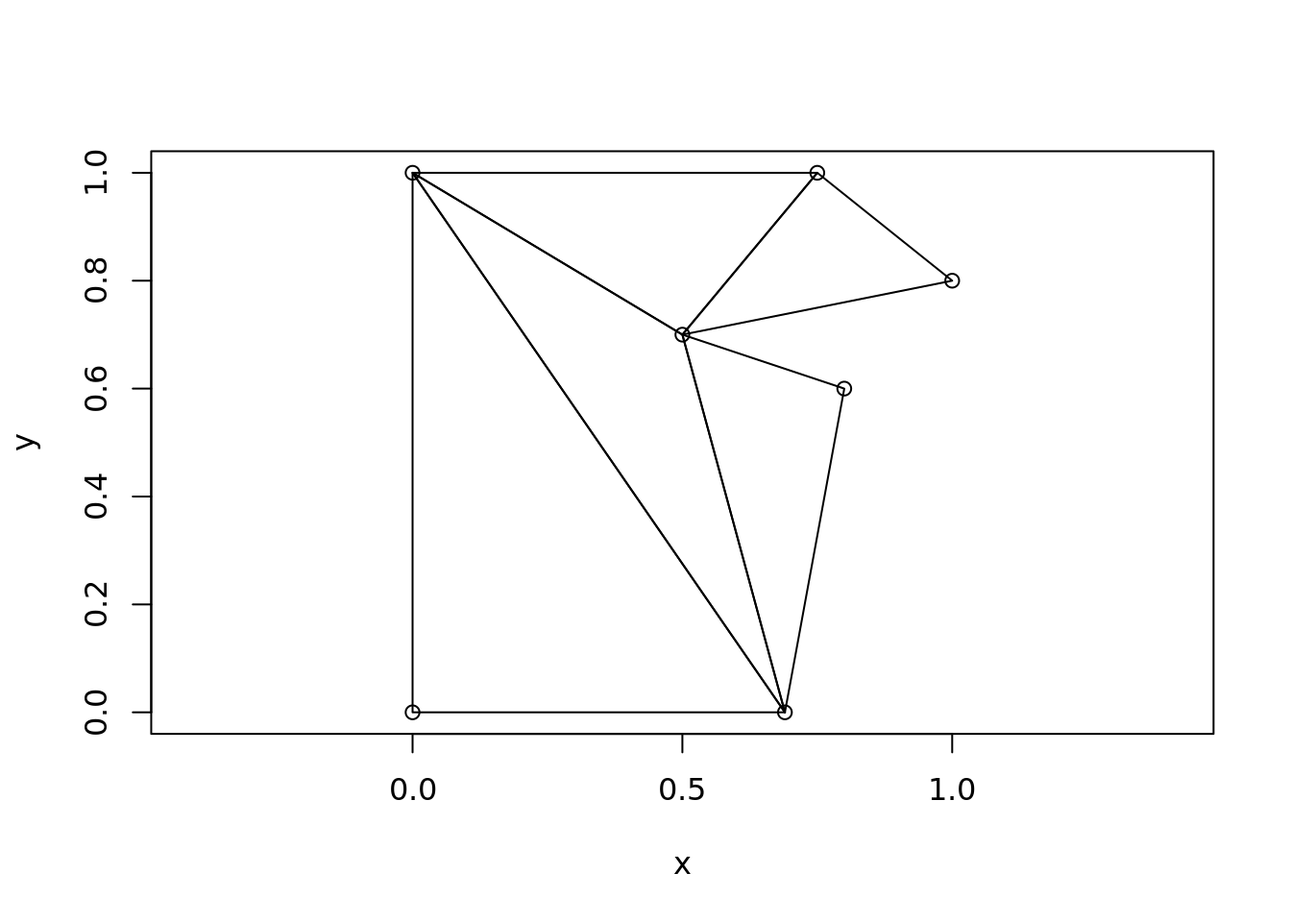
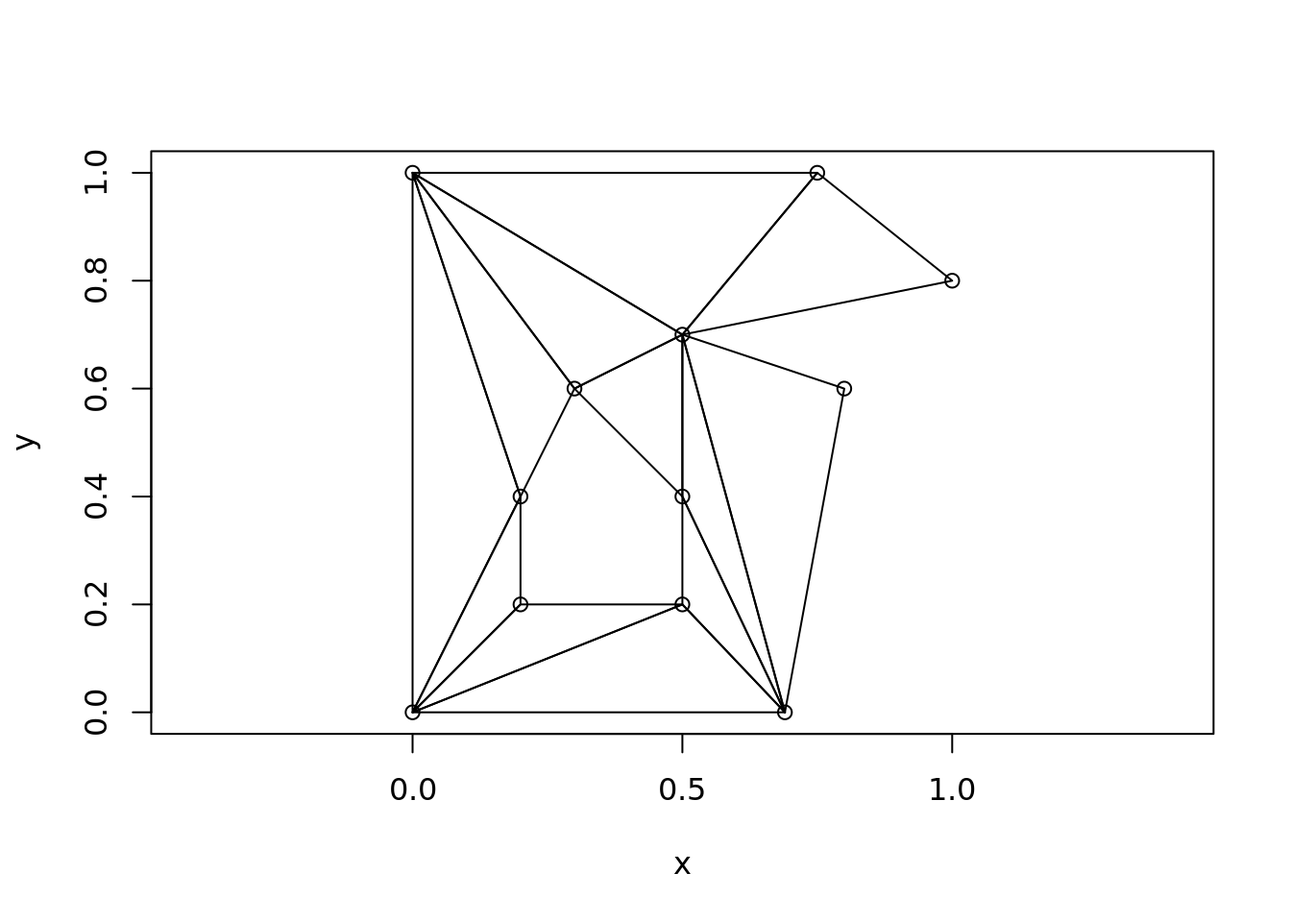
flesh out getting started vignette

diff --git a/docs/articles/decido.html b/docs/articles/decido.html
@@ -5,7 +5,7 @@
 <meta charset="utf-8">
 <meta http-equiv="X-UA-Compatible" content="IE=edge">
 <meta name="viewport" content="width=device-width, initial-scale=1.0">
-<title>decido • decido</title>
+<title>decido - polygon triangulation by ear clipping • decido</title>
 <!-- jquery --><script src="https://code.jquery.com/jquery-3.1.0.min.js" integrity="sha384-nrOSfDHtoPMzJHjVTdCopGqIqeYETSXhZDFyniQ8ZHcVy08QesyHcnOUpMpqnmWq" crossorigin="anonymous"></script><!-- Bootstrap --><link href="https://maxcdn.bootstrapcdn.com/bootstrap/3.3.7/css/bootstrap.min.css" rel="stylesheet" integrity="sha384-BVYiiSIFeK1dGmJRAkycuHAHRg32OmUcww7on3RYdg4Va+PmSTsz/K68vbdEjh4u" crossorigin="anonymous">
 <script src="https://maxcdn.bootstrapcdn.com/bootstrap/3.3.7/js/bootstrap.min.js" integrity="sha384-Tc5IQib027qvyjSMfHjOMaLkfuWVxZxUPnCJA7l2mCWNIpG9mGCD8wGNIcPD7Txa" crossorigin="anonymous"></script><!-- Font Awesome icons --><link href="https://maxcdn.bootstrapcdn.com/font-awesome/4.6.3/css/font-awesome.min.css" rel="stylesheet" integrity="sha384-T8Gy5hrqNKT+hzMclPo118YTQO6cYprQmhrYwIiQ/3axmI1hQomh7Ud2hPOy8SP1" crossorigin="anonymous">
 <!-- pkgdown --><link href="../pkgdown.css" rel="stylesheet">
@@ -56,7 +56,7 @@
       </header><div class="row">
   <div class="col-md-9">
     <div class="page-header toc-ignore">
-      <h1>decido</h1>
+      <h1>decido - polygon triangulation by ear clipping</h1>
                         <h4 class="author">Michael D. Sumner</h4>
             
             <h4 class="date">2018-02-26</h4>
@@ -65,7 +65,7 @@
     
     
 <div class="contents">
-<p>WIP</p>
+<p>Constrained triangulation of polygons by ear clipping.</p>
 <div id="example" class="section level2">
 <h2 class="hasAnchor">
 <a href="#example" class="anchor"></a>Example</h2>
@@ -79,99 +79,108 @@ y &lt;-<span class="st"> </span><span class="kw">c</span>(<span class="dv">0</sp
 
 <span class="kw">plot_ears</span>(<span class="kw">cbind</span>(x, y), ind)</code></pre></div>
 <p><img src="decido_files/figure-html/example-1.png" width="672"></p>
-<p>Support for holes is provided by two required arguments <code>numholes</code> and <code>holes</code>. The holes are the starting index of each hole, here in R 1-based convention.</p>
-<div class="sourceCode"><pre class="sourceCode r"><code class="sourceCode r"><span class="kw">example</span>(earcut, <span class="dt">echo =</span> <span class="ot">TRUE</span>)
-<span class="co">#&gt; </span>
-<span class="co">#&gt; earcut&gt; ## single ring polygon</span>
-<span class="co">#&gt; earcut&gt; x &lt;- c(0, 0, 0.75, 1, 0.5, 0.8, 0.69)</span>
-<span class="co">#&gt; </span>
-<span class="co">#&gt; earcut&gt; y &lt;- c(0, 1, 1, 0.8, 0.7, 0.6, 0)</span>
-<span class="co">#&gt; </span>
-<span class="co">#&gt; earcut&gt; (ind &lt;- earcut(x, y))</span>
-<span class="co">#&gt;  [1] 2 1 7 7 6 5 5 4 3 2 7 5 5 3 2</span>
-<span class="co">#&gt; </span>
-<span class="co">#&gt; earcut&gt; plot_ears(cbind(x, y), ind)</span></code></pre></div>
+<p>Support for holes is provided by the argument <code>holes</code>. The values are the starting index of each hole, here in R’s 1-based convention.</p>
+<div class="sourceCode"><pre class="sourceCode r"><code class="sourceCode r">## polygon with a hole
+x &lt;-<span class="st"> </span><span class="kw">c</span>(<span class="dv">0</span>, <span class="dv">0</span>, <span class="fl">0.75</span>, <span class="dv">1</span>, <span class="fl">0.5</span>, <span class="fl">0.8</span>, <span class="fl">0.69</span>,
+     <span class="fl">0.2</span>, <span class="fl">0.5</span>, <span class="fl">0.5</span>, <span class="fl">0.3</span>, <span class="fl">0.2</span>)
+y &lt;-<span class="st"> </span><span class="kw">c</span>(<span class="dv">0</span>, <span class="dv">1</span>, <span class="dv">1</span>, <span class="fl">0.8</span>, <span class="fl">0.7</span>, <span class="fl">0.6</span>, <span class="dv">0</span>,
+     <span class="fl">0.2</span>, <span class="fl">0.2</span>, <span class="fl">0.4</span>, <span class="fl">0.6</span>, <span class="fl">0.4</span>)
+ind &lt;-<span class="st"> </span><span class="kw"><a href="../reference/earcut.html">earcut</a></span>(x, y, <span class="dt">holes =</span> <span class="dv">8</span>)
+<span class="kw">plot_ears</span>(<span class="kw">cbind</span>(x, y), ind)</code></pre></div>
 <p><img src="decido_files/figure-html/unnamed-chunk-1-1.png" width="672"></p>
-<pre><code>#&gt; 
-#&gt; earcut&gt; ## polygon with a hole
-#&gt; earcut&gt; x &lt;- c(0, 0, 0.75, 1, 0.5, 0.8, 0.69,
-#&gt; earcut+      0.2, 0.5, 0.5, 0.3, 0.2)
-#&gt; 
-#&gt; earcut&gt; y &lt;- c(0, 1, 1, 0.8, 0.7, 0.6, 0,
-#&gt; earcut+      0.2, 0.2, 0.4, 0.6, 0.4)
-#&gt; 
-#&gt; earcut&gt; ind &lt;- earcut(x, y, holes = 8)
-#&gt; 
-#&gt; earcut&gt; plot_ears(cbind(x, y), ind)</code></pre>
-<p><img src="decido_files/figure-html/unnamed-chunk-1-2.png" width="672"></p>
-<pre><code>#&gt; 
-#&gt; earcut&gt; ## 1) Notice how the hole begins at index 8,
-#&gt; earcut&gt; ## hence holes = 8 above, and holes = c(8, 13) below
-#&gt; earcut&gt; plot_ears(cbind(x, y), ind, col = "grey", border = NA)</code></pre>
-<p><img src="decido_files/figure-html/unnamed-chunk-1-3.png" width="672"></p>
-<pre><code>#&gt; 
-#&gt; earcut&gt; text(x, y, labels = seq_along(x), pos = 2)
-#&gt; 
-#&gt; earcut&gt; ## add another hole
-#&gt; earcut&gt; x &lt;- c(0, 0, 0.75, 1, 0.5, 0.8, 0.69,
-#&gt; earcut+      0.2, 0.5, 0.5, 0.3, 0.2,
-#&gt; earcut+       0.15, 0.23, 0.2)
-#&gt; 
-#&gt; earcut&gt; y &lt;- c(0, 1, 1, 0.8, 0.7, 0.6, 0,
-#&gt; earcut+      0.2, 0.2, 0.4, 0.6, 0.4,
-#&gt; earcut+       0.65, 0.65, 0.81)
-#&gt; 
-#&gt; earcut&gt; ind &lt;- earcut(x, y, holes = c(8, 13))
-#&gt; 
-#&gt; earcut&gt; plot_ears(cbind(x, y), ind, col = "grey")</code></pre>
-<p><img src="decido_files/figure-html/unnamed-chunk-1-4.png" width="672"></p>
-<pre><code>#&gt; 
-#&gt; earcut&gt; # simpler shape with more than one hole
-#&gt; earcut&gt; # the two inside holes are open to each other
-#&gt; earcut&gt; # (so we can use the same data for one hole or two)
-#&gt; earcut&gt; x &lt;- c(0, 0, 1, 1,
-#&gt; earcut+        0.4, 0.2, 0.2, 0.4,
-#&gt; earcut+        0.6, 0.8, 0.8, 0.6
-#&gt; earcut+ )
-#&gt; 
-#&gt; earcut&gt; y &lt;- c(0, 1, 1, 0,
-#&gt; earcut+        0.2, 0.2, 0.4, 0.4,
-#&gt; earcut+        0.6, 0.6, 0.4, 0.4
-#&gt; earcut+ )
-#&gt; 
-#&gt; earcut&gt; ind &lt;- decido::earcut(x, y, holes = c(5, 9))
-#&gt; 
-#&gt; earcut&gt; plot_ears(cbind(x, y), ind, col = "grey")</code></pre>
-<p><img src="decido_files/figure-html/unnamed-chunk-1-5.png" width="672"></p>
-<pre><code>#&gt; 
-#&gt; earcut&gt; plot_holes(cbind(x, y), holes = c(5, 9), col = "grey")</code></pre>
-<p><img src="decido_files/figure-html/unnamed-chunk-1-6.png" width="672"></p>
-<pre><code>#&gt; 
-#&gt; earcut&gt; ind &lt;- decido::earcut(x, y, holes = 5)
-#&gt; 
-#&gt; earcut&gt; plot_ears(cbind(x, y), ind, col = "grey")</code></pre>
-<p><img src="decido_files/figure-html/unnamed-chunk-1-7.png" width="672"></p>
-<pre><code>#&gt; 
-#&gt; earcut&gt; plot_holes(cbind(x, y), holes = 5, col = "grey")</code></pre>
-<p><img src="decido_files/figure-html/unnamed-chunk-1-8.png" width="672"></p>
+<p>The hole-specification is a little subtle, since usually R’s functions (polygon and polypath, and others) expect NA values to separate separate paths.</p>
+<p>Notice how the hole begins at index 8, hence <code>holes = 8</code> above, and <code>holes = c(8, 13)</code> below.</p>
+<div class="sourceCode"><pre class="sourceCode r"><code class="sourceCode r"><span class="kw">plot_ears</span>(<span class="kw">cbind</span>(x, y), ind, <span class="dt">col =</span> <span class="st">"grey"</span>, <span class="dt">border =</span> <span class="ot">NA</span>)
+<span class="kw">text</span>(x, y, <span class="dt">labels =</span> <span class="kw">seq_along</span>(x), <span class="dt">pos =</span> <span class="dv">2</span>)</code></pre></div>
+<p><img src="decido_files/figure-html/unnamed-chunk-2-1.png" width="672"></p>
+<p>The method is subtle, and it’s also not the only way to do it, the grid package uses a grouping vector rather than a sparse index like this. The spatial packages sp and sf explicitly use structural hierarchies rather than more abstract specifications. The fortify-approach in ggplot2 is more like the grid one. A sparse representation is closer to what is needed for topological operations and visualization, consider that when we have triangles there are no need for “holes”, we can identify which triangles will be plotted and how (or not), and an index into the vertices available becomes a key efficiency feature. (See <a href="https://github.com/hypertidy/silicate">silicate</a> for a lot more on this topic).</p>
+<p>This example adds a third polygon, a second hole in the island.</p>
+<div class="sourceCode"><pre class="sourceCode r"><code class="sourceCode r">## add another hole
+x &lt;-<span class="st"> </span><span class="kw">c</span>(<span class="dv">0</span>, <span class="dv">0</span>, <span class="fl">0.75</span>, <span class="dv">1</span>, <span class="fl">0.5</span>, <span class="fl">0.8</span>, <span class="fl">0.69</span>,
+     <span class="fl">0.2</span>, <span class="fl">0.5</span>, <span class="fl">0.5</span>, <span class="fl">0.3</span>, <span class="fl">0.2</span>,
+      <span class="fl">0.15</span>, <span class="fl">0.23</span>, <span class="fl">0.2</span>)
+y &lt;-<span class="st"> </span><span class="kw">c</span>(<span class="dv">0</span>, <span class="dv">1</span>, <span class="dv">1</span>, <span class="fl">0.8</span>, <span class="fl">0.7</span>, <span class="fl">0.6</span>, <span class="dv">0</span>,
+     <span class="fl">0.2</span>, <span class="fl">0.2</span>, <span class="fl">0.4</span>, <span class="fl">0.6</span>, <span class="fl">0.4</span>,
+      <span class="fl">0.65</span>, <span class="fl">0.65</span>, <span class="fl">0.81</span>)
+ind &lt;-<span class="st"> </span><span class="kw"><a href="../reference/earcut.html">earcut</a></span>(x, y, <span class="dt">holes =</span> <span class="kw">c</span>(<span class="dv">8</span>, <span class="dv">13</span>))
+<span class="kw">plot_ears</span>(<span class="kw">cbind</span>(x, y), ind, <span class="dt">col =</span> <span class="st">"grey"</span>)</code></pre></div>
+<p><img src="decido_files/figure-html/unnamed-chunk-3-1.png" width="672"></p>
+</div>
+<div id="comparing-paths-and-triangles" class="section level2">
+<h2 class="hasAnchor">
+<a href="#comparing-paths-and-triangles" class="anchor"></a>Comparing paths and triangles</h2>
+<p>This example defines a much simpler shape, the minimal shape able to be decomposed to triangles (and not stay a triangle).</p>
+<p>A quadrilateral, with two holes that are open to each other allows the use of the same data, and we can tweak whether we wanted one hole or two. This is an important example used for validating early versions of this package.</p>
+<div class="sourceCode"><pre class="sourceCode r"><code class="sourceCode r">x &lt;-<span class="st"> </span><span class="kw">c</span>(<span class="dv">0</span>, <span class="dv">0</span>, <span class="dv">1</span>, <span class="dv">1</span>,
+       <span class="fl">0.4</span>, <span class="fl">0.2</span>, <span class="fl">0.2</span>, <span class="fl">0.4</span>,
+       <span class="fl">0.6</span>, <span class="fl">0.8</span>, <span class="fl">0.8</span>, <span class="fl">0.6</span>
+)
+y &lt;-<span class="st"> </span><span class="kw">c</span>(<span class="dv">0</span>, <span class="dv">1</span>, <span class="dv">1</span>, <span class="dv">0</span>,
+       <span class="fl">0.2</span>, <span class="fl">0.2</span>, <span class="fl">0.4</span>, <span class="fl">0.4</span>,
+       <span class="fl">0.6</span>, <span class="fl">0.6</span>, <span class="fl">0.4</span>, <span class="fl">0.4</span>
+)
+ind &lt;-<span class="st"> </span>decido<span class="op">::</span><span class="kw"><a href="http://www.rdocumentation.org/packages/decido/topics/earcut">earcut</a></span>(x, y, <span class="dt">holes =</span> <span class="kw">c</span>(<span class="dv">5</span>, <span class="dv">9</span>))
+<span class="kw">plot_ears</span>(<span class="kw">cbind</span>(x, y), ind, <span class="dt">col =</span> <span class="st">"grey"</span>)
+<span class="kw">title</span>(<span class="st">"triangle plot, two holes"</span>)</code></pre></div>
+<p><img src="decido_files/figure-html/unnamed-chunk-4-1.png" width="672"></p>
+<div class="sourceCode"><pre class="sourceCode r"><code class="sourceCode r"><span class="kw"><a href="../reference/plot_ears.html">plot_holes</a></span>(<span class="kw">cbind</span>(x, y), <span class="dt">holes =</span> <span class="kw">c</span>(<span class="dv">5</span>, <span class="dv">9</span>), <span class="dt">col =</span> <span class="st">"grey"</span>)
+<span class="kw">title</span>(<span class="st">"path plot, two holes"</span>)</code></pre></div>
+<p><img src="decido_files/figure-html/unnamed-chunk-4-2.png" width="672"></p>
+<div class="sourceCode"><pre class="sourceCode r"><code class="sourceCode r">
+ind &lt;-<span class="st"> </span>decido<span class="op">::</span><span class="kw"><a href="http://www.rdocumentation.org/packages/decido/topics/earcut">earcut</a></span>(x, y, <span class="dt">holes =</span> <span class="dv">5</span>)
+<span class="kw">plot_ears</span>(<span class="kw">cbind</span>(x, y), ind, <span class="dt">col =</span> <span class="st">"grey"</span>)
+<span class="kw">title</span>(<span class="st">"triangle plot, two holes as one"</span>)</code></pre></div>
+<p><img src="decido_files/figure-html/unnamed-chunk-4-3.png" width="672"></p>
+<div class="sourceCode"><pre class="sourceCode r"><code class="sourceCode r"><span class="kw"><a href="../reference/plot_ears.html">plot_holes</a></span>(<span class="kw">cbind</span>(x, y), <span class="dt">holes =</span> <span class="dv">5</span>, <span class="dt">col =</span> <span class="st">"grey"</span>)
+<span class="kw">title</span>(<span class="st">"path plot, two holes as one"</span>)</code></pre></div>
+<p><img src="decido_files/figure-html/unnamed-chunk-4-4.png" width="672"></p>
+</div>
+<div id="a-geographic-example" class="section level2">
+<h2 class="hasAnchor">
+<a href="#a-geographic-example" class="anchor"></a>A geographic example</h2>
+<p>For good measure we include a geographic example, a triangulation of the mainland part of Tasmania from the <code>oz</code> package.</p>
 <div class="sourceCode"><pre class="sourceCode r"><code class="sourceCode r"><span class="kw">library</span>(oz)
 oz_ring &lt;-<span class="st"> </span>oz<span class="op">::</span><span class="kw"><a href="http://www.rdocumentation.org/packages/oz/topics/oz">ozRegion</a></span>(<span class="dt">states =</span> <span class="ot">FALSE</span>)
 ring &lt;-<span class="st"> </span>oz_ring<span class="op">$</span>lines[[<span class="dv">6</span>]]
 indices &lt;-<span class="st"> </span><span class="kw"><a href="../reference/earcut.html">earcut</a></span>(ring<span class="op">$</span>x, ring<span class="op">$</span>y)
 <span class="kw">plot_ears</span>(<span class="kw">cbind</span>(ring<span class="op">$</span>x, ring<span class="op">$</span>y), indices)</code></pre></div>
-<p><img src="decido_files/figure-html/unnamed-chunk-2-1.png" width="672"></p>
+<p><img src="decido_files/figure-html/unnamed-chunk-5-1.png" width="672"></p>
 </div>
 <div id="variants" class="section level2">
 <h2 class="hasAnchor">
 <a href="#variants" class="anchor"></a>Variants</h2>
 <p>The actual triangulation obtained depends on where the polygons start. This is complicated, because of the sheer number of possible variants, combinations of starting points among the island and its holes.</p>
 <p>Important “edge” cases are degeneracies, holes touching the island or each other, duplicated edges, intersecting edges, zero-length edges, holes actually external to islands, already existing triangles, and existing quadrilaterals (amongst others). We aren’t going to explore those here, and we are reasonably confident that Mapbox has been presented with a rich enough pool of variant polygons to make its library pretty robust. There’s no uniquely “correct” here either, different systems and standards will apply different rules and allow or choose differently.</p>
+<p>First a function to “rotate” coordinates to different start/end.</p>
 <div class="sourceCode"><pre class="sourceCode r"><code class="sourceCode r">vecrot &lt;-<span class="st"> </span><span class="cf">function</span>(x, k) {
   <span class="cf">if</span> (k <span class="op">&lt;</span><span class="st"> </span><span class="dv">0</span> <span class="op">||</span><span class="st"> </span>k <span class="op">&gt;</span><span class="st"> </span><span class="kw">length</span>(x)) <span class="kw">warning</span>(<span class="st">"k out of bounds of 'x' index"</span>)
   k &lt;-<span class="st"> </span>k <span class="op">%%</span><span class="st"> </span><span class="kw">length</span>(x)
   ## from DescTools::VecRot
   <span class="kw">rep</span>(x, <span class="dt">times =</span> <span class="dv">2</span>)[(<span class="kw">length</span>(x) <span class="op">-</span><span class="st"> </span>k <span class="op">+</span><span class="st"> </span><span class="dv">1</span>)<span class="op">:</span>(<span class="dv">2</span> <span class="op">*</span><span class="st"> </span><span class="kw">length</span>(x) <span class="op">-</span><span class="st"> </span>k)]
 }</code></pre></div>
+<div class="sourceCode"><pre class="sourceCode r"><code class="sourceCode r">x &lt;-<span class="st"> </span><span class="kw">c</span>(<span class="dv">0</span>, <span class="dv">0</span>, <span class="fl">0.75</span>, <span class="dv">1</span>, <span class="fl">0.5</span>, <span class="fl">0.8</span>, <span class="fl">0.69</span>)
+y &lt;-<span class="st"> </span><span class="kw">c</span>(<span class="dv">0</span>, <span class="dv">1</span>, <span class="dv">1</span>, <span class="fl">0.8</span>, <span class="fl">0.7</span>, <span class="fl">0.6</span>, <span class="dv">0</span>)
+(ind &lt;-<span class="st"> </span><span class="kw"><a href="../reference/earcut.html">earcut</a></span>(x, y))
+<span class="co">#&gt;  [1] 2 1 7 7 6 5 5 4 3 2 7 5 5 3 2</span>
+
+<span class="kw">plot_ears</span>(<span class="kw">cbind</span>(x, y), ind)
+<span class="kw">title</span>(<span class="st">"original"</span>)</code></pre></div>
+<p><img src="decido_files/figure-html/unnamed-chunk-7-1.png" width="672"></p>
+<div class="sourceCode"><pre class="sourceCode r"><code class="sourceCode r"><span class="cf">for</span> (rot <span class="cf">in</span> <span class="kw">head</span>(<span class="kw">seq_along</span>(x), <span class="dv">-1</span>)) {
+xx &lt;-<span class="st"> </span><span class="kw">vecrot</span>(x, rot); yy &lt;-<span class="st"> </span><span class="kw">vecrot</span>(y, rot)
+ind &lt;-<span class="st"> </span><span class="kw"><a href="../reference/earcut.html">earcut</a></span>(xx, yy)
+<span class="kw">plot_ears</span>(<span class="kw">cbind</span>(xx, yy), ind)
+<span class="kw">title</span>(<span class="kw">sprintf</span>(<span class="st">"rot %i"</span>, rot))
+}</code></pre></div>
+<p><img src="decido_files/figure-html/unnamed-chunk-7-2.png" width="672"><img src="decido_files/figure-html/unnamed-chunk-7-3.png" width="672"><img src="decido_files/figure-html/unnamed-chunk-7-4.png" width="672"><img src="decido_files/figure-html/unnamed-chunk-7-5.png" width="672"><img src="decido_files/figure-html/unnamed-chunk-7-6.png" width="672"><img src="decido_files/figure-html/unnamed-chunk-7-7.png" width="672"></p>
+<p>Expand on this with constrained and conforming Delaunay …</p>
+<div class="sourceCode"><pre class="sourceCode r"><code class="sourceCode r"><span class="kw">library</span>(sfdct)
+<span class="kw">library</span>(sf)
+xsf &lt;-<span class="st"> </span><span class="kw"><a href="http://www.rdocumentation.org/packages/sf/topics/sfc">st_sfc</a></span>(<span class="kw"><a href="http://www.rdocumentation.org/packages/sf/topics/st">st_polygon</a></span>(<span class="kw">list</span>(<span class="kw">cbind</span>(x, y)[<span class="kw">c</span>(<span class="kw">seq_along</span>(x), <span class="dv">1</span>), ])))
+<span class="kw"><a href="http://www.rdocumentation.org/packages/sf/topics/plot">plot</a></span>(<span class="kw"><a href="http://www.rdocumentation.org/packages/sfdct/topics/ct_triangulate">ct_triangulate</a></span>(xsf, <span class="dt">Y =</span> <span class="ot">TRUE</span>)[<span class="dv">1</span>], <span class="dt">col =</span> <span class="ot">NA</span>)
+
+## now a conforming Delaunay triangulation
+<span class="kw"><a href="http://www.rdocumentation.org/packages/sf/topics/plot">plot</a></span>(<span class="kw"><a href="http://www.rdocumentation.org/packages/sfdct/topics/ct_triangulate">ct_triangulate</a></span>(xsf, <span class="dt">D =</span> <span class="ot">TRUE</span>)[<span class="dv">1</span>], <span class="dt">col =</span> <span class="ot">NA</span>)</code></pre></div>
 </div>
 <div id="performance" class="section level2">
 <h2 class="hasAnchor">
@@ -191,6 +200,8 @@ indices &lt;-<span class="st"> </span><span class="kw"><a href="../reference/ear
 <a href="#tocnav" class="anchor"></a>Contents</h2>
       <ul class="nav nav-pills nav-stacked">
 <li><a href="#example">Example</a></li>
+      <li><a href="#comparing-paths-and-triangles">Comparing paths and triangles</a></li>
+      <li><a href="#a-geographic-example">A geographic example</a></li>
       <li><a href="#variants">Variants</a></li>
       <li><a href="#performance">Performance</a></li>
       </ul>

diff --git a/docs/index.html b/docs/index.html
@@ -71,19 +71,9 @@
 <div id="installation" class="section level2">
 <h2 class="hasAnchor">
 <a href="#installation" class="anchor"></a>Installation</h2>
-<p>You can install decido from GitHub with:</p>
+<p>You can install decido from GitHub with the following. You will need the <a href="https://www.rstudio.com/products/rpackages/devtools/">set of development tools</a> for building source packages with binary code.</p>
 <div class="sourceCode"><pre class="sourceCode r"><code class="sourceCode r">## install.packages("devtools")
-devtools<span class="op">::</span><span class="kw"><a href="http://www.rdocumentation.org/packages/devtools/topics/install_github">install_github</a></span>(<span class="st">"hypertidy/decido"</span>)</code></pre></div>
-</div>
-<div id="development" class="section level2">
-<h2 class="hasAnchor">
-<a href="#development" class="anchor"></a>Development</h2>
-<p>Immediate needs:</p>
-<ul>
-<li>wrap around complex types of multiple polygons, etc.</li>
-<li>more doc and tests!</li>
-</ul>
-<p>This is motivated by the topology aspirations of <a href="https://github.com/hypertidy/silicate">hypertidy/silicate</a>. We need tools for decomposing shape data into primitives for analysis and visualization. Decomposition into graph types is already well supported and exercised, but triangulations of paths versus triangulations from edges are two key facilities needed for greater control.</p>
+devtools<span class="op">::</span><span class="kw"><a href="http://www.rdocumentation.org/packages/devtools/topics/install_github">install_github</a></span>(<span class="st">"hypertidy/decido"</span>, <span class="dt">build_vignettes =</span> <span class="ot">TRUE</span>)</code></pre></div>
 </div>
 <div id="example" class="section level2">
 <h2 class="hasAnchor">
@@ -94,7 +84,19 @@ x &lt;-<span class="st"> </span><span class="kw">c</span>(<span class="dv">0</sp
 y &lt;-<span class="st"> </span><span class="kw">c</span>(<span class="dv">0</span>, <span class="dv">1</span>, <span class="dv">1</span>, <span class="fl">0.8</span>, <span class="fl">0.7</span>, <span class="fl">0.6</span>, <span class="dv">0</span>)
 <span class="kw"><a href="reference/earcut.html">earcut</a></span>(x, y)
 <span class="co">#&gt;  [1] 2 1 7 7 6 5 5 4 3 2 7 5 5 3 2</span></code></pre></div>
-<p>See the documentation and vignette for more.</p>
+<p>See the <a href="https://hypertidy.github.io/decido/">documentation</a> and <a href="https://hypertidy.github.io/decido/articles/decido.html">vignette</a> for more.</p>
+<p>Open the getting started vignette.</p>
+<div class="sourceCode"><pre class="sourceCode r"><code class="sourceCode r"><span class="kw">vignette</span>(<span class="st">"decido"</span>, <span class="dt">package =</span> <span class="st">"decido"</span>)</code></pre></div>
+</div>
+<div id="development" class="section level2">
+<h2 class="hasAnchor">
+<a href="#development" class="anchor"></a>Development</h2>
+<p>Immediate needs:</p>
+<ul>
+<li>wrap around complex types of multiple polygons, etc.</li>
+<li>more doc and tests!</li>
+</ul>
+<p>This is motivated by the topology aspirations of <a href="https://github.com/hypertidy/silicate">hypertidy/silicate</a>. We need tools for decomposing shape data into primitives for analysis and visualization. Decomposition into graph types is already well supported and exercised, but triangulations of paths versus triangulations from edges are two key facilities needed for greater control.</p>
 </div>
 <div id="beware" class="section level2">
 <h2 class="hasAnchor">

diff --git a/docs/articles/index.html b/docs/articles/index.html
@@ -89,7 +89,7 @@
       <p class="section-desc"></p>
 
       <ul>
-        <li><a href="decido.html">decido</a></li>
+        <li><a href="decido.html">decido - polygon triangulation by ear clipping</a></li>
       </ul>
     </div>
   </div>

diff --git a/README.md b/README.md
@@ -14,22 +14,12 @@ This augments the Javascript version available in [rearcut](https://github.com/h
 Installation
 ------------
 
-You can install decido from GitHub with:
+You can install decido from GitHub with the following. You will need the [set of development tools](https://www.rstudio.com/products/rpackages/devtools/) for building source packages with binary code.
 
 ``` r
 ## install.packages("devtools")
-devtools::install_github("hypertidy/decido")
+devtools::install_github("hypertidy/decido", build_vignettes = TRUE)
 ```
-
-Development
------------
-
-Immediate needs:
-
--   wrap around complex types of multiple polygons, etc.
--   more doc and tests!
-
-This is motivated by the topology aspirations of [hypertidy/silicate](https://github.com/hypertidy/silicate). We need tools for decomposing shape data into primitives for analysis and visualization. Decomposition into graph types is already well supported and exercised, but triangulations of paths versus triangulations from edges are two key facilities needed for greater control.
 
 Example
 -------
@@ -44,7 +34,23 @@ earcut(x, y)
 #>  [1] 2 1 7 7 6 5 5 4 3 2 7 5 5 3 2
 ```
 
-See the documentation and vignette for more.
+See the [documentation](https://hypertidy.github.io/decido/) and [vignette](https://hypertidy.github.io/decido/articles/decido.html) for more.
+
+Open the getting started vignette.
+
+``` r
+vignette("decido", package = "decido")
+```
+
+Development
+-----------
+
+Immediate needs:
+
+-   wrap around complex types of multiple polygons, etc.
+-   more doc and tests!
+
+This is motivated by the topology aspirations of [hypertidy/silicate](https://github.com/hypertidy/silicate). We need tools for decomposing shape data into primitives for analysis and visualization. Decomposition into graph types is already well supported and exercised, but triangulations of paths versus triangulations from edges are two key facilities needed for greater control.
 
 Beware!
 -------

diff --git a/NEWS.md b/NEWS.md
@@ -1,5 +1,7 @@
 # decido 0.0.1
 
+* Added a vignette and more complete documentation. 
+
 * Added helper functions `plot_holes` and `plot_ears` to wrap calls to polypath for polygon plot and
  triangle plot respectively, using the same style as function `earcut`. 
  
